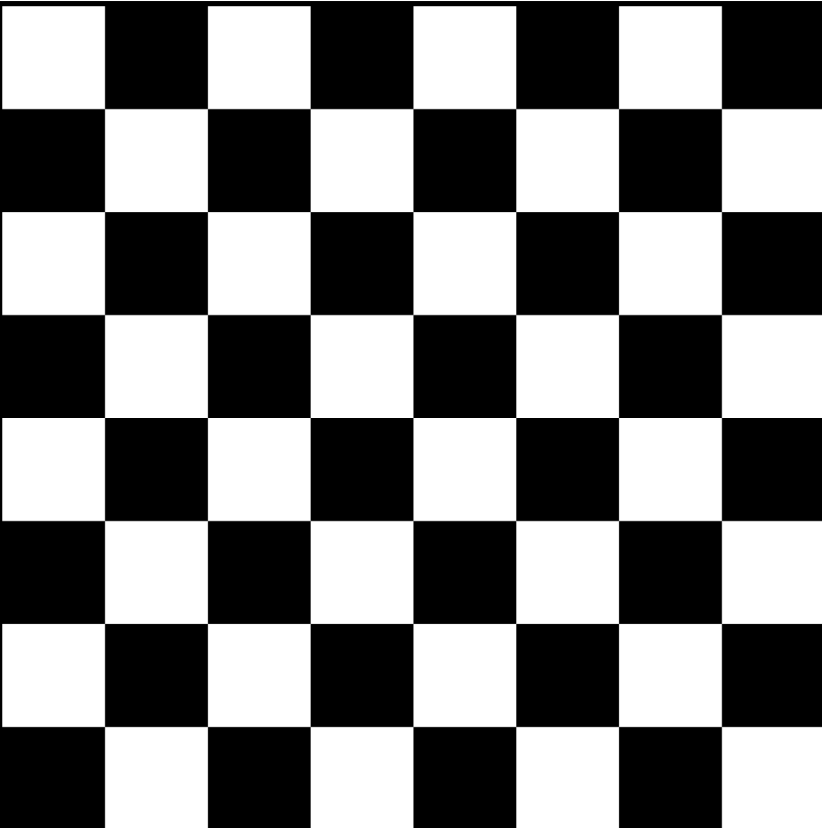
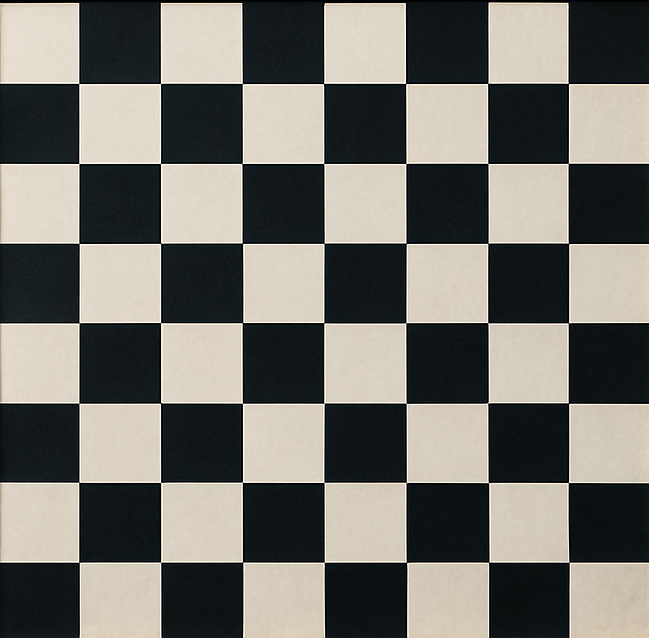
change board and background images

diff --git a/KFC_Py/Game.py b/KFC_Py/Game.py
@@ -24,13 +24,13 @@ class Game(Publisher):
         sound_dir = os.path.join(os.path.dirname(__file__), '..', 'sounds')
         sound_files = {
             'move': os.path.join(sound_dir, 'move.wav'),
-            'jump': os.path.join(sound_dir, 'jump.wav'),
+            'jump': os.path.join(sound_dir, 'jump.mp3'),
             'capture': os.path.join(sound_dir, 'capture.wav'),
             'win': os.path.join(sound_dir, 'win.mp3'),
         }
         # Support both .wav and .mp3 for each sound
         base = os.path.splitext(sound_files.get(name, ''))[0]
-        candidates = [base + ext for ext in ('.wav', '.mp3')]
+        candidates = [base + ext for ext in ('.mp3','.wav')]
         path = next((p for p in candidates if os.path.exists(p)), None)
         if not path:
             return
@@ -228,6 +228,9 @@ class Game(Publisher):
 
         # Draw player cursors on the board (not on the background)
         if self.kp1 and self.kp2:
+            # Two distinct brown shades for player frames
+            color1 = (30, 30, 100)   # Player 1: deep brown (BGR)
+            color2 = (60, 80, 180)   # Player 2: much lighter brown (BGR)
             for player, kp, last in (
                     (1, self.kp1, 'last_cursor1'),
                     (2, self.kp2, 'last_cursor2')
@@ -237,8 +240,7 @@ class Game(Publisher):
                 x1 = c * self.board.cell_W_pix
                 y2 = y1 + self.board.cell_H_pix - 1
                 x2 = x1 + self.board.cell_W_pix - 1
-                # Use vibrant colors: Player 1 = magenta, Player 2 = cyan
-                color = (255, 0, 255) if player == 1 else (0, 255, 255)
+                color = color1 if player == 1 else color2
                 self.curr_board.img.draw_rect(x1, y1, x2, y2, color)
 
                 prev = getattr(self, last)

diff --git a/KFC_Py/GameFactory.py b/KFC_Py/GameFactory.py
@@ -4,7 +4,7 @@ from Board import Board
 from PieceFactory import PieceFactory
 from Game import Game
 
-CELL_PX = 90
+CELL_PX = 53  # Size of a single board cell in pixels, used for board and piece dimensions
 
 
 def create_game(pieces_root: Union[str, pathlib.Path], img_factory) -> Game: